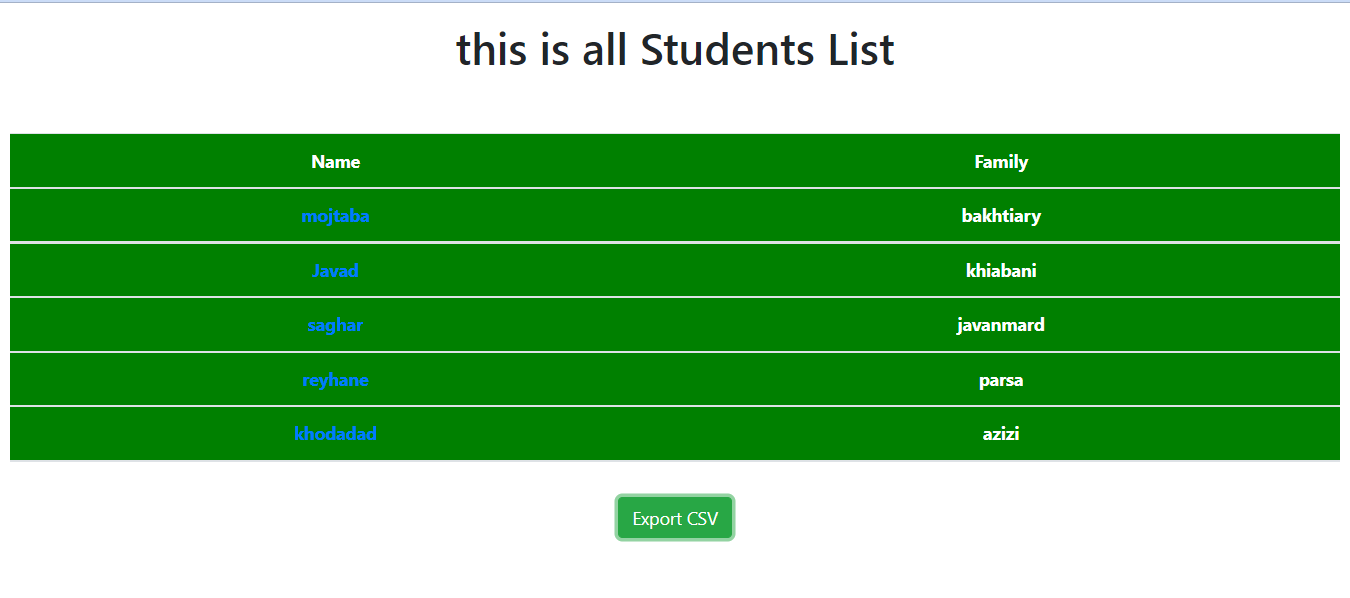
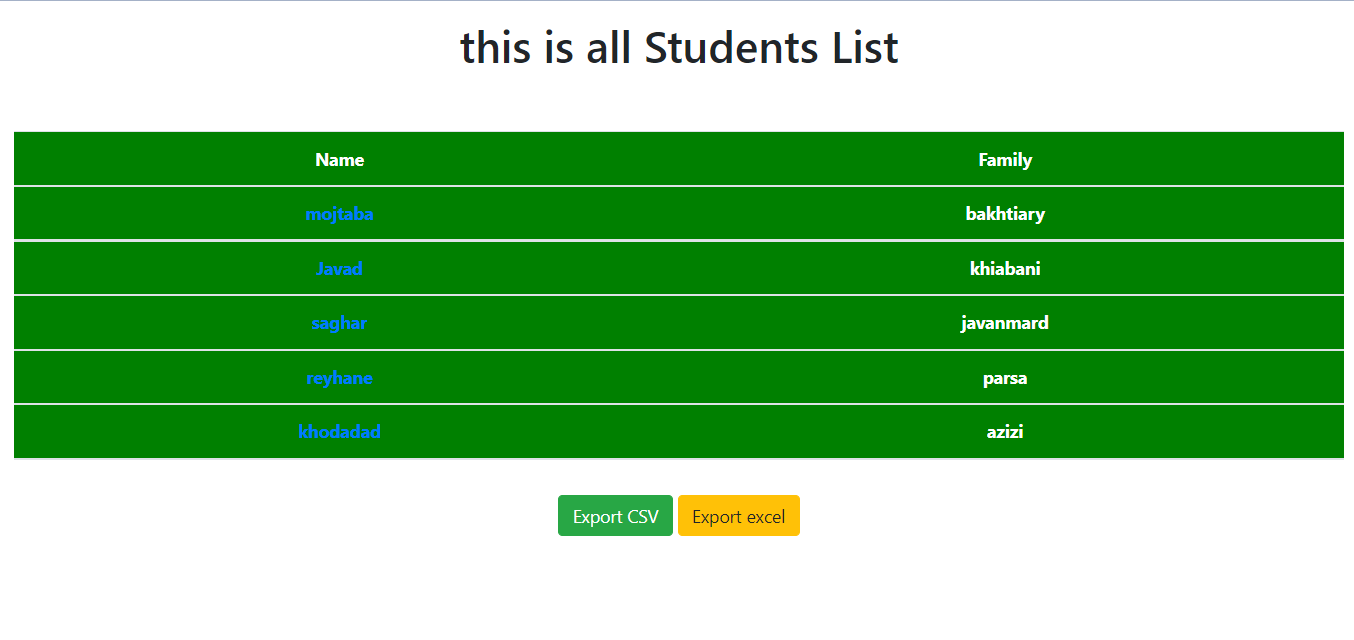
the excel download added

Changed region(s): [[0.0, 0.1806, 0.9956, 0.9331], [0.0, 0.0, 1.0, 0.1204]]

diff --git a/myapp/templates/myapp/studentlist.html b/myapp/templates/myapp/studentlist.html
@@ -47,6 +47,7 @@ this is all Students List
   
         
         <a href="/Exportstudent/" class='btn btn-success' >Export CSV</a>
+        <a href="/Exportexcel/" class='btn btn-warning' >Export Excel</a>
         
         </div>
 

diff --git a/myapp/views.py b/myapp/views.py
@@ -3,6 +3,8 @@ from . models import Student
 from django.http import HttpResponse
 import datetime
 import csv
+import xlwt
+
 
 
 
@@ -28,5 +30,29 @@ def Export_students(request):
     for student in students :
         writer.writerow([student.id , student.Name , student.Family , student.Code])
     return response
+
+
+
+def export_excel(response):
+    response=HttpResponse(content_type="apllication/ms-excel")
+    response["content-Disposition"]='attachment ; filename=students'+str(datetime.datetime.now())+'.xls'
+    
+    workbook=xlwt.Workbook(encoding='utf-8')
+    worksheet=workbook.add_sheet("students")
+    columns=['id' , 'Name' , 'Last Name' , 'Student Code']
+    rownumber=0
+    
+    for col in range(len(columns)):
+        worksheet.write(rownumber , col , columns[col])
+        
+    students=Student.objects.all().values_list('id' , 'Name' , 'Family' , 'Code')
+    
+    for std in students:
+        rownumber+=1
+        
+        for col in range(len(std)):
+            worksheet.write(rownumber , col , std[col])
     
     
+    workbook.save(response)
+    return response

diff --git a/myapp/urls.py b/myapp/urls.py
@@ -1,7 +1,7 @@
 
 from django.contrib import admin
 from django.urls import path , include
-from .views import student_list , student_details , Export_students
+from .views import student_list , student_details , Export_students , export_excel
 
 name='myapp'
 
@@ -9,5 +9,6 @@ urlpatterns = [
     path('studentlist/', student_list),
     path('studentdetails/<pk>', student_details , name="studentdetails"),
     path('Exportstudent/', Export_students , name="exportstudent"),
+    path('Exportexcel/', export_excel , name="exportexcel"),
     
 ]

diff --git a/readme.md b/readme.md
@@ -1,4 +1,4 @@
-this app let you to download students data as csv file
+this app let you to download students data as csv file and Excel file ( .xls )
 
 
 We have module like this
@@ -12,6 +12,12 @@ our list page is like this
 
 
 ![Neutral png](/pictures/main.png) 
+
+
+you can click on export excel and your exported data is like :
+
+
+![Neutral png](/pictures/data1.png) 
 
 
 
